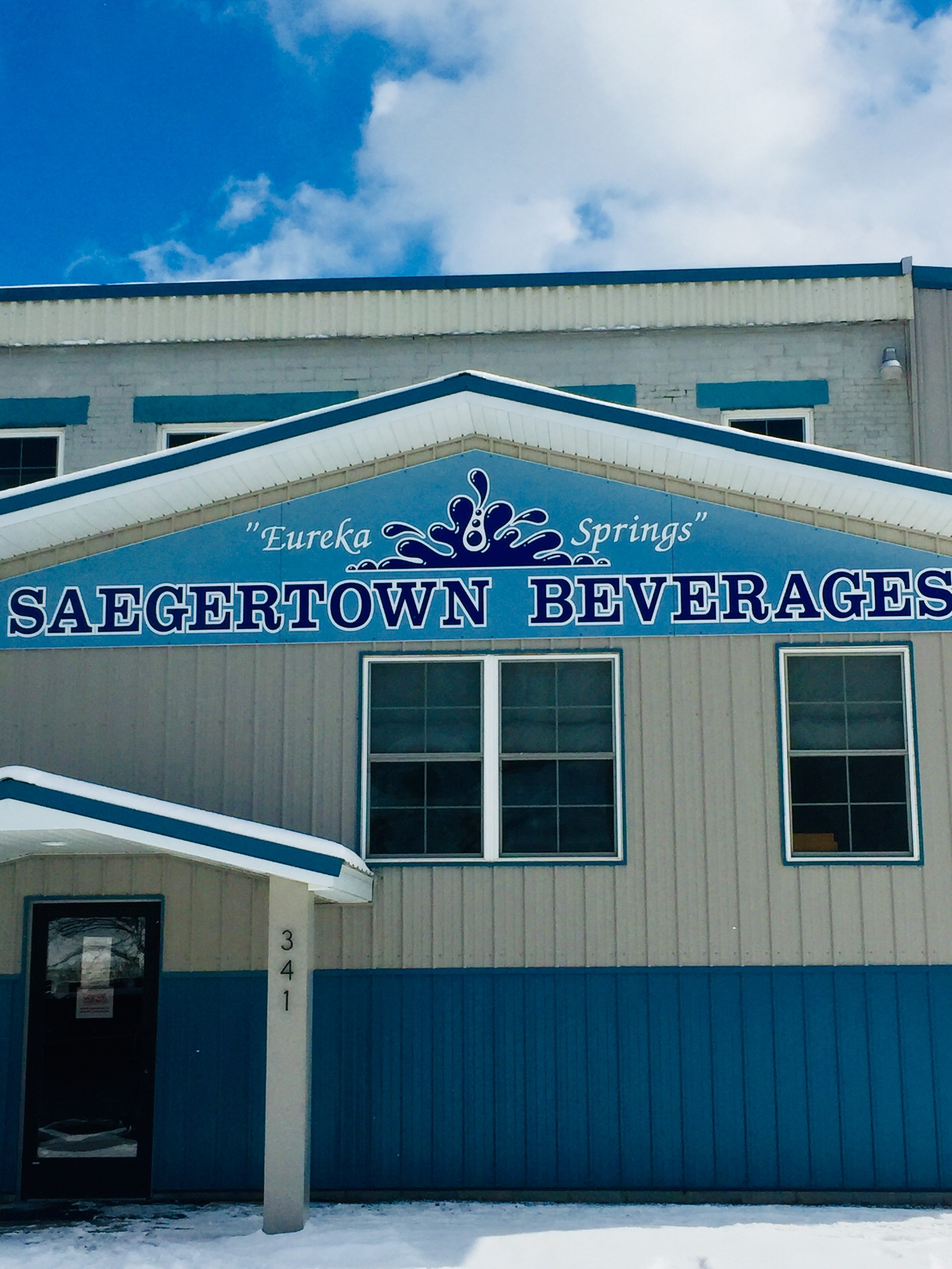
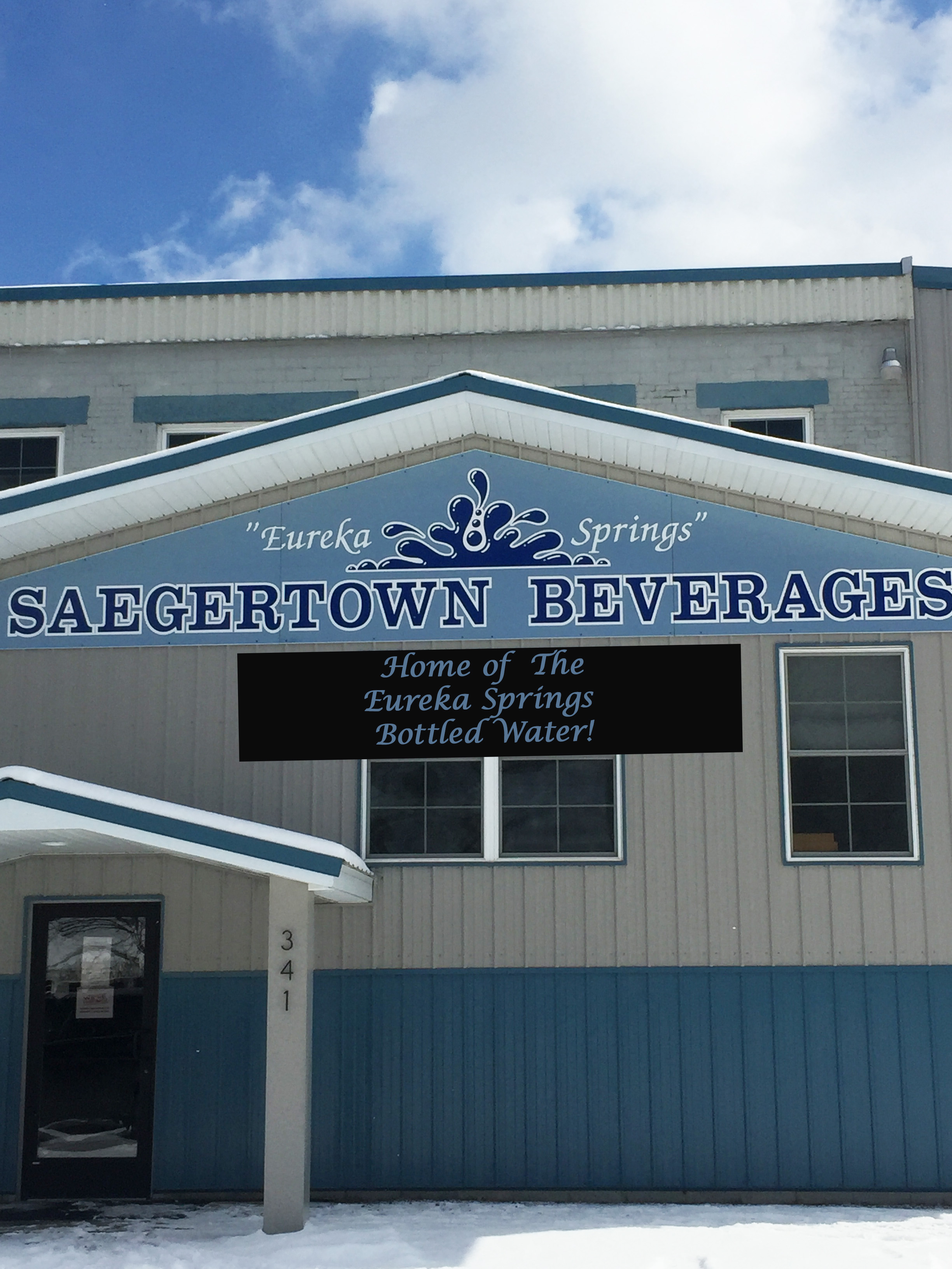
homepage

diff --git a/index.html b/index.html
@@ -22,18 +22,7 @@
 						<div class="inner">
 							<header>
 							<!--	<h1><a href="index.html" id="logo">Saegertown Beverages</a></h1> -->
-								<hr />
-								<nav class="hide-mobile">
-								<h2>Located in Saegertown, Pennsylvania<br />
-							Only natural spring water from our site!<br />
-								Since 1887</h2>
-								<hr/>
-							</nav>
 
-							<nav class="show-mobile hide-wide">
-								<h2>Saegertown Beverages</h2>
-								<hr/>
-							</nav>
 
 							</header>
 
@@ -58,13 +47,9 @@
 
 			<!-- Banner -->
 				<section id="banner">
-					<header>
-						<h2>Home of <strong>Eureka</strong> Springs Bottled Water!</h2>
 
+						<h2>You can use your own label or we can provide ours to deliver your bottle advertising needs!</h2>
 
-						</header>
-						You can use your own label or we can provide ours to deliver your bottle advertising needs!
-						</p>
 						<h3><b>Click on image to see private example</b></h3>
 
 				</section>

diff --git a/assets/css/main.css b/assets/css/main.css
@@ -2162,10 +2162,10 @@ input, select, textarea {
 /* Header */
 
 	#header {
-		position: relative;
+		position: static;
 		background-image: url("../../images/header.JPG");
-		background-size: cover;
-		background-position: center center;
+	background-size: cover;
+		background-position: center;
 		background-attachment: fixed;
 		color: #000000;
 		text-align: center;
@@ -2178,7 +2178,7 @@ input, select, textarea {
 			content: '';
 			display: inline-block;
 			vertical-align: middle;
-			height: 100%;
+			height: 50%;
 		}
 
 		#header .inner {
